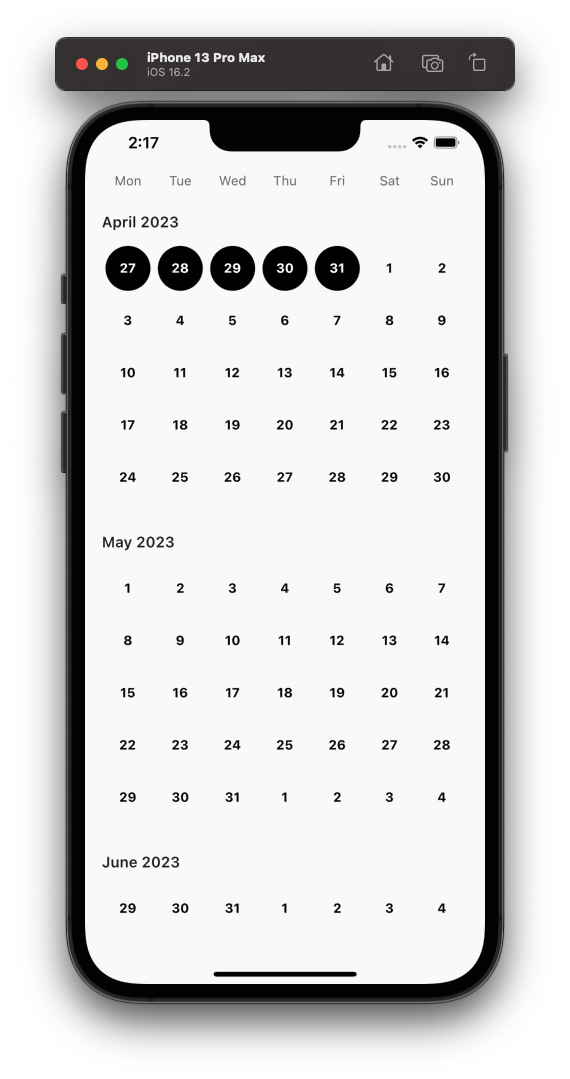
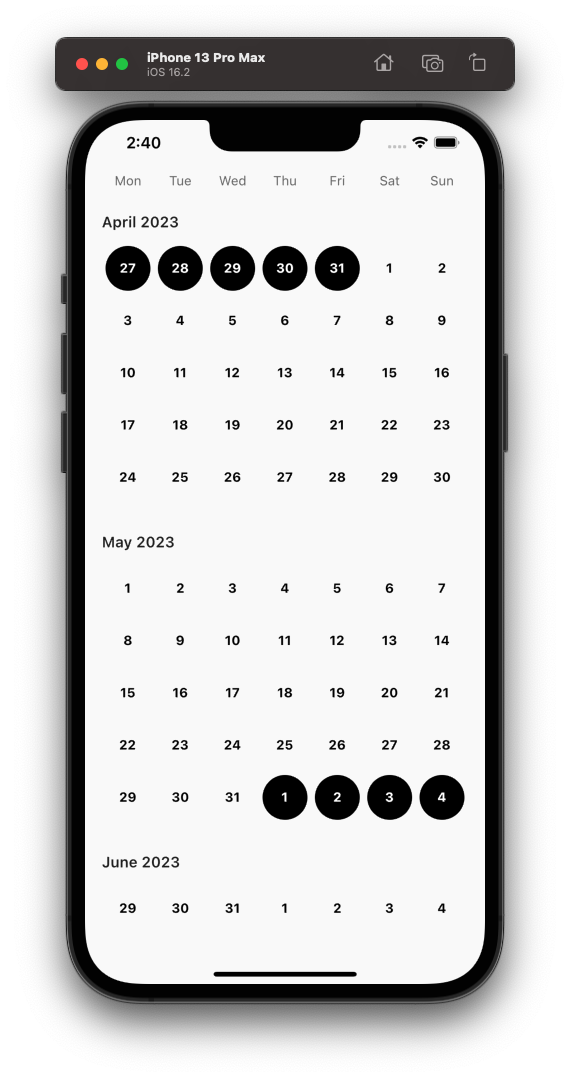
docs: Update screenshot

Changed region(s): [[0.4474, 0.7034, 0.8351, 0.7646], [0.2088, 0.1223, 0.2982, 0.1529]]

diff --git a/README.md b/README.md
@@ -35,7 +35,7 @@ Referring to the example above:
 
 <img src="screenshots/no_overflow.png" height=720/>
 
-Notice that the overflowed week at the bottom has been removed but the overflowed days remain at the top since removing the whole week would mean removing the 1st and 2nd days of the month, which is part of the current month and shouldn't be removed.
+Notice that the overflowed week at the bottom of April has been removed but the overflowed days remain at the top since removing the whole week would mean removing the 1st and 2nd days of the month, which is part of the current month and shouldn't be removed.
 
 ```dart
 final currentMonth = DateTime.now();
